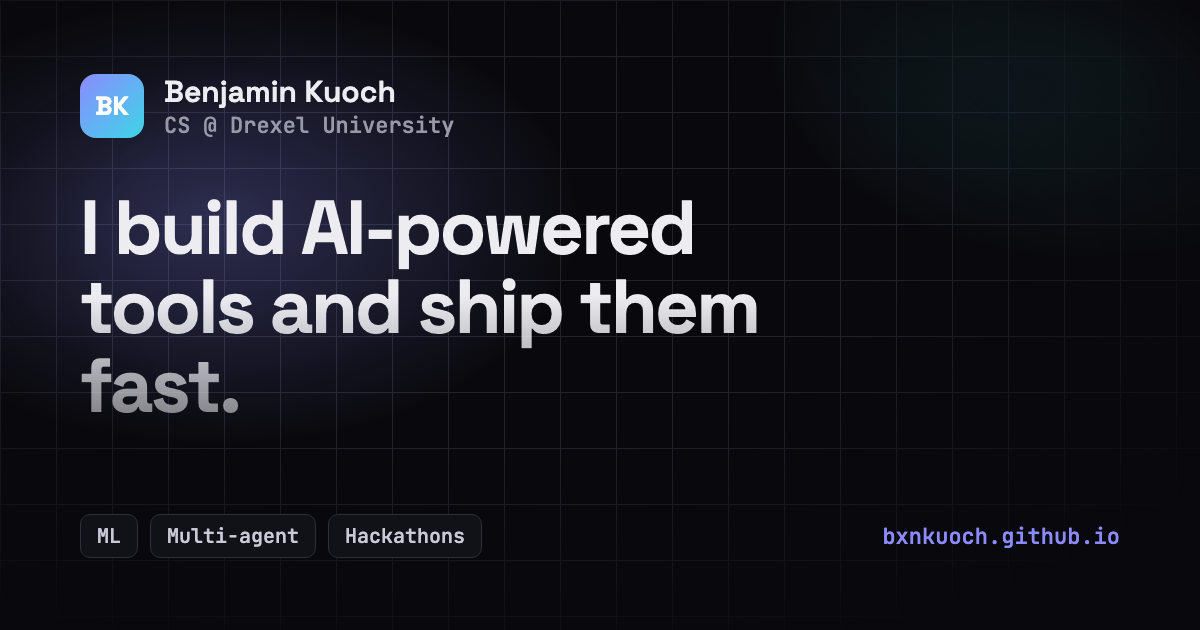
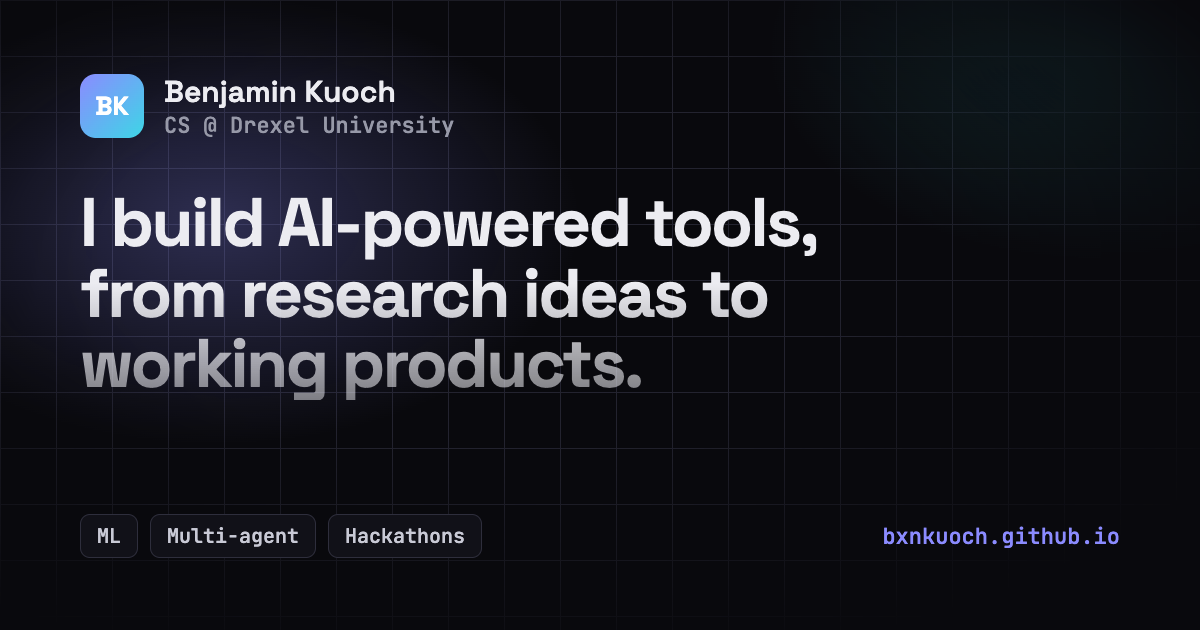
Change the headline to focus on research ideas to working products
Update the social preview image to match, with slightly smaller text so
the longer headline fits.

Changed region(s): [[0.0617, 0.3016, 0.6783, 0.6635]]

diff --git a/tools/og.html b/tools/og.html
@@ -14,7 +14,7 @@ body{background:#09090d;color:#ececf1;font-family:"Space Grotesk",sans-serif;pos
 .mono{font-family:"JetBrains Mono",monospace;font-size:22px;color:#9799a8}
 .mark{width:64px;height:64px;border-radius:16px;background:linear-gradient(135deg,#8b8bff,#3dd6e6);display:grid;place-items:center;font-weight:700;font-size:26px;color:#fff}
 .name{font-size:30px;font-weight:600}
-h1{font-size:76px;line-height:1.04;letter-spacing:-.035em;margin:48px 0 0;max-width:15ch;
+h1{font-size:68px;line-height:1.04;letter-spacing:-.035em;margin:48px 0 0;max-width:20ch;
  background:linear-gradient(180deg,#ececf1 45%,rgba(236,236,241,.5));-webkit-background-clip:text;color:transparent}
 .foot{margin-top:auto;display:flex;justify-content:space-between;align-items:center}
 .tags{display:flex;gap:12px}
@@ -22,6 +22,6 @@ h1{font-size:76px;line-height:1.04;letter-spacing:-.035em;margin:48px 0 0;max-wi
 .url{font-family:"JetBrains Mono",monospace;font-size:22px;color:#8b8bff}
 </style></head><body><div class="bg"></div><div class="wrap">
 <div class="id"><div class="mark">BK</div><div><div class="name">Benjamin Kuoch</div><div class="mono">CS @ Drexel University</div></div></div>
-<h1>I build AI-powered tools and ship them fast.</h1>
+<h1>I build AI-powered tools, from research ideas to working products.</h1>
 <div class="foot"><div class="tags"><span>ML</span><span>Multi-agent</span><span>Hackathons</span></div><div class="url">bxnkuoch.github.io</div></div>
 </div></body></html>

diff --git a/index.html b/index.html
@@ -18,7 +18,7 @@
   <link rel="preconnect" href="https://fonts.googleapis.com" />
   <link rel="preconnect" href="https://fonts.gstatic.com" crossorigin />
   <link href="https://fonts.googleapis.com/css2?family=Inter:wght@400;500;600&family=JetBrains+Mono:wght@400;500&family=Space+Grotesk:wght@500;600;700&display=swap" rel="stylesheet" />
-  <link rel="stylesheet" href="styles.css?v=202610170036" />
+  <link rel="stylesheet" href="styles.css?v=202610170043" />
   <script>
     try { const t = localStorage.getItem("theme"); if (t) document.documentElement.dataset.theme = t; } catch {}
   </script>
@@ -87,8 +87,8 @@
     <span class="mono muted small">Built with plain HTML, CSS &amp; JS</span>
   </footer>
 
-  <script src="config.js?v=202610170036"></script>
-  <script src="script.js?v=202610170036"></script>
-  <script src="pet.js?v=202610170036"></script>
+  <script src="config.js?v=202610170043"></script>
+  <script src="script.js?v=202610170043"></script>
+  <script src="pet.js?v=202610170043"></script>
 </body>
 </html>

diff --git a/config.js b/config.js
@@ -4,7 +4,7 @@ window.PORTFOLIO_CONFIG = {
 
   name: "Benjamin Kuoch",
   role: "CS @ Drexel University",
-  headline: "I build AI-powered tools and ship them fast, usually with a team and a deadline.",
+  headline: "I build AI-powered tools, from research ideas to working products.",
   about:
     "Computer Science student at Drexel University focused on machine learning. " +
     "I like hackathons, multi-agent systems, and turning messy real-world data into something useful.",
